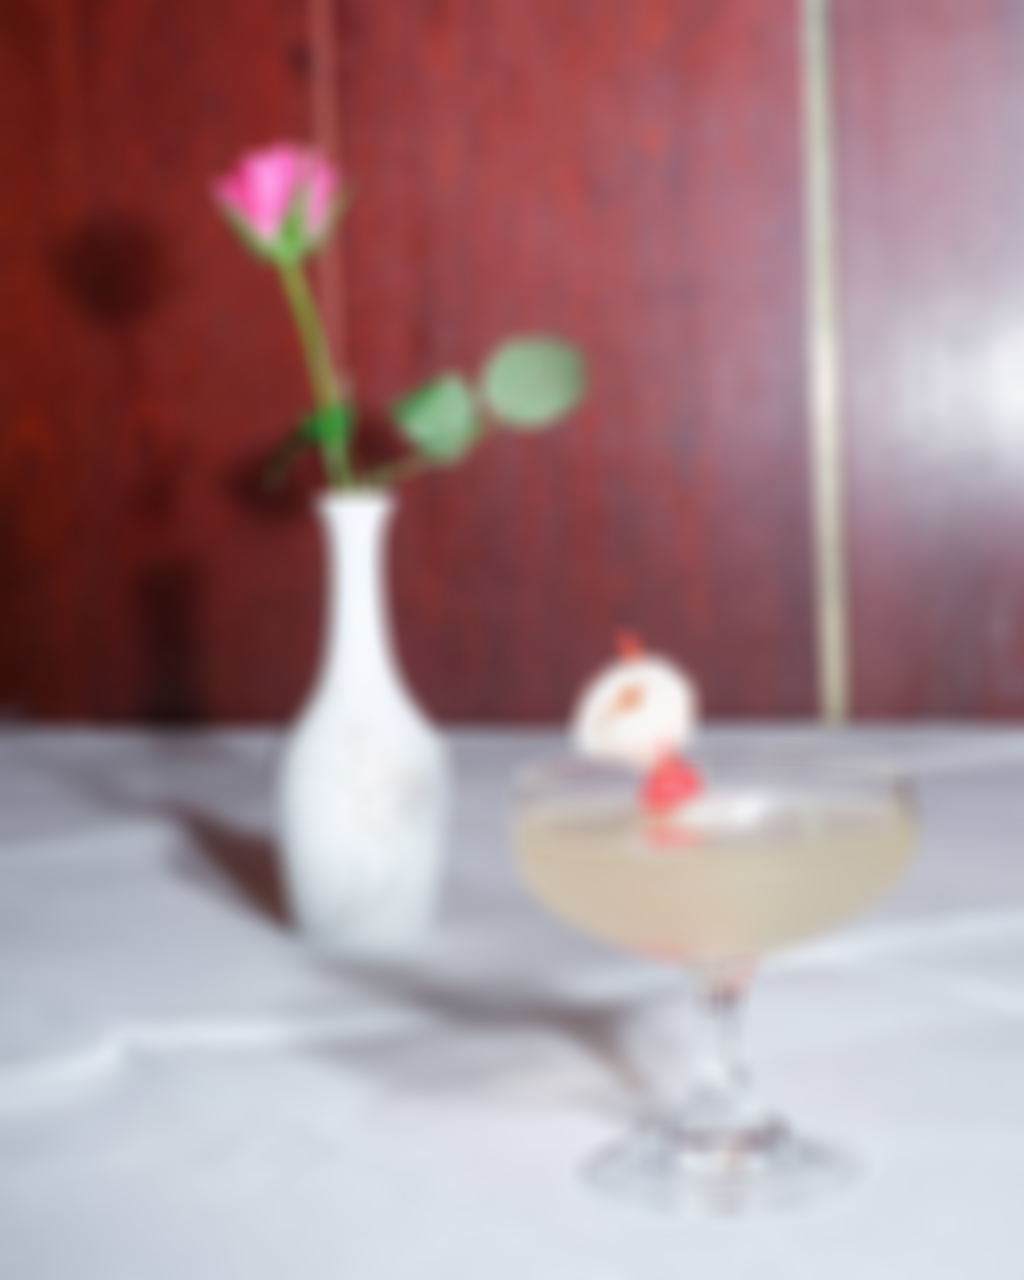
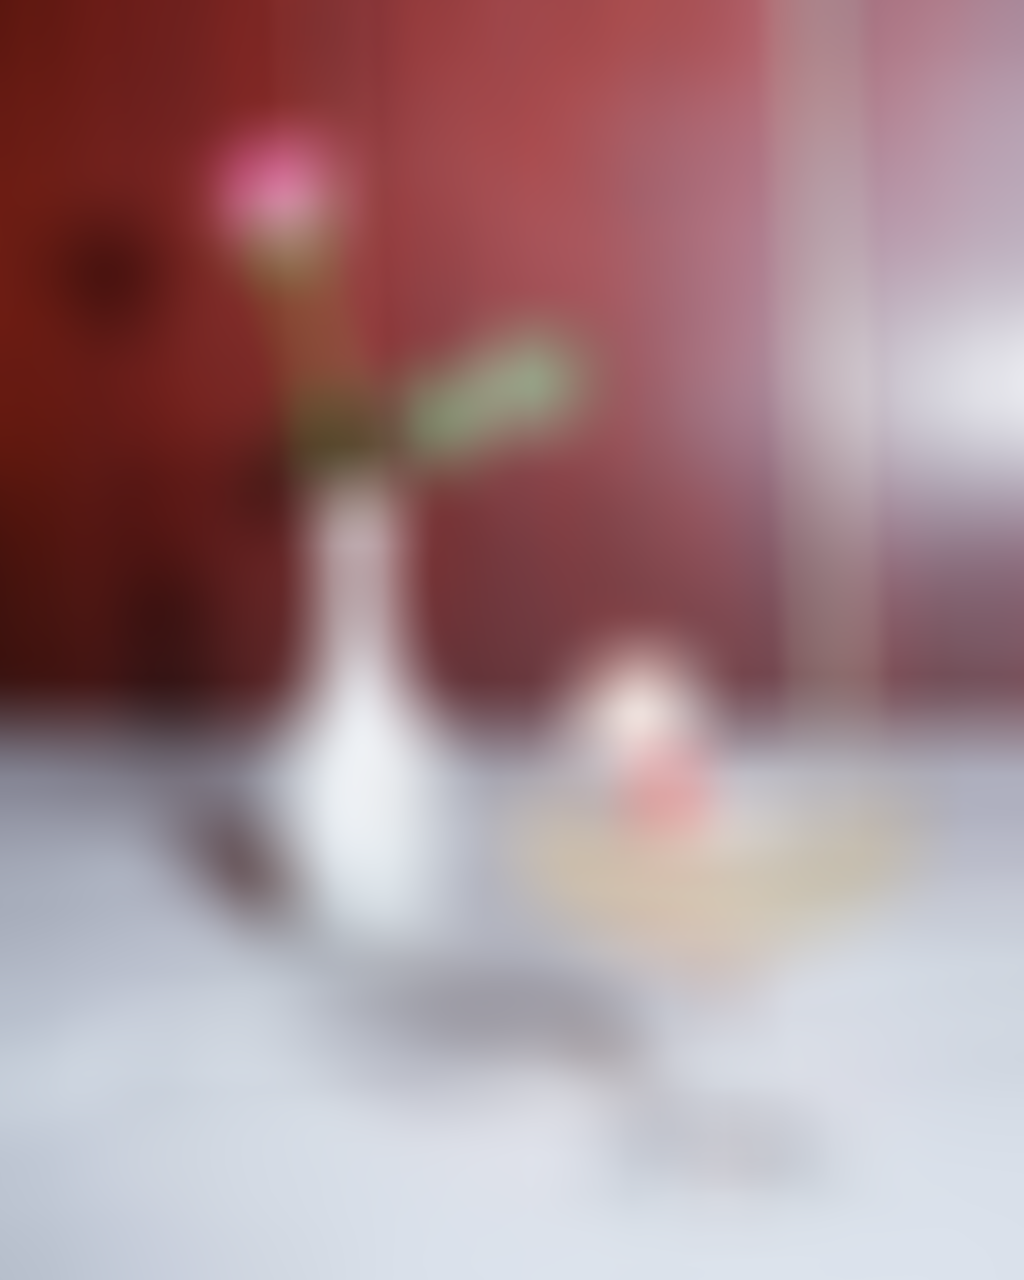
update gaussian blur example

diff --git a/README.md b/README.md
@@ -89,7 +89,7 @@ pixels (compares each pixel with the pixel on the right from it).
 
 ##### Gaussian blur
 
-<img src="src/main/resources/result/blur/gaussian_blur_cocktail.png" alt="Picture of cocktail after applying gaussian blur with radius 21" width="350">
+<img src="src/main/resources/result/blur/gaussian_blur_cocktail.png" alt="Picture of cocktail after applying gaussian blur with kernel 101x101" width="350">
 
 ### Grayscale
 
